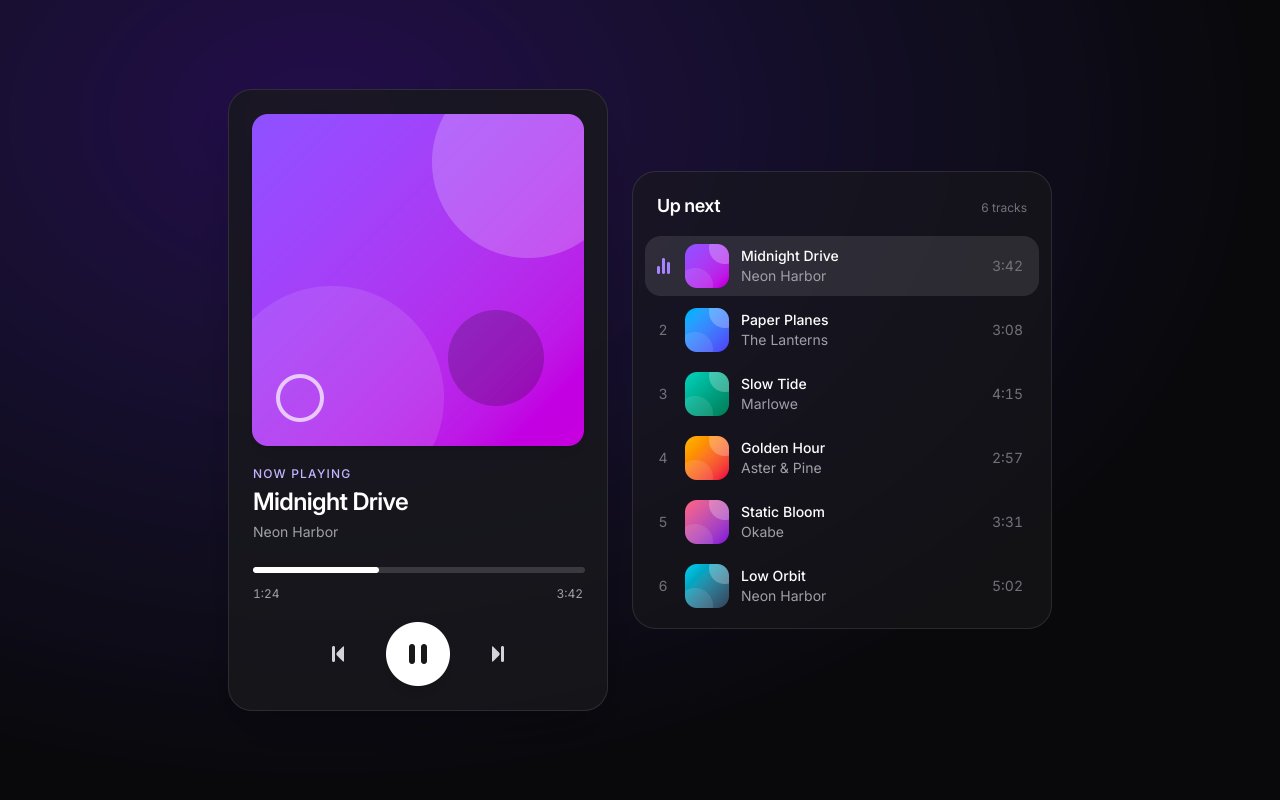
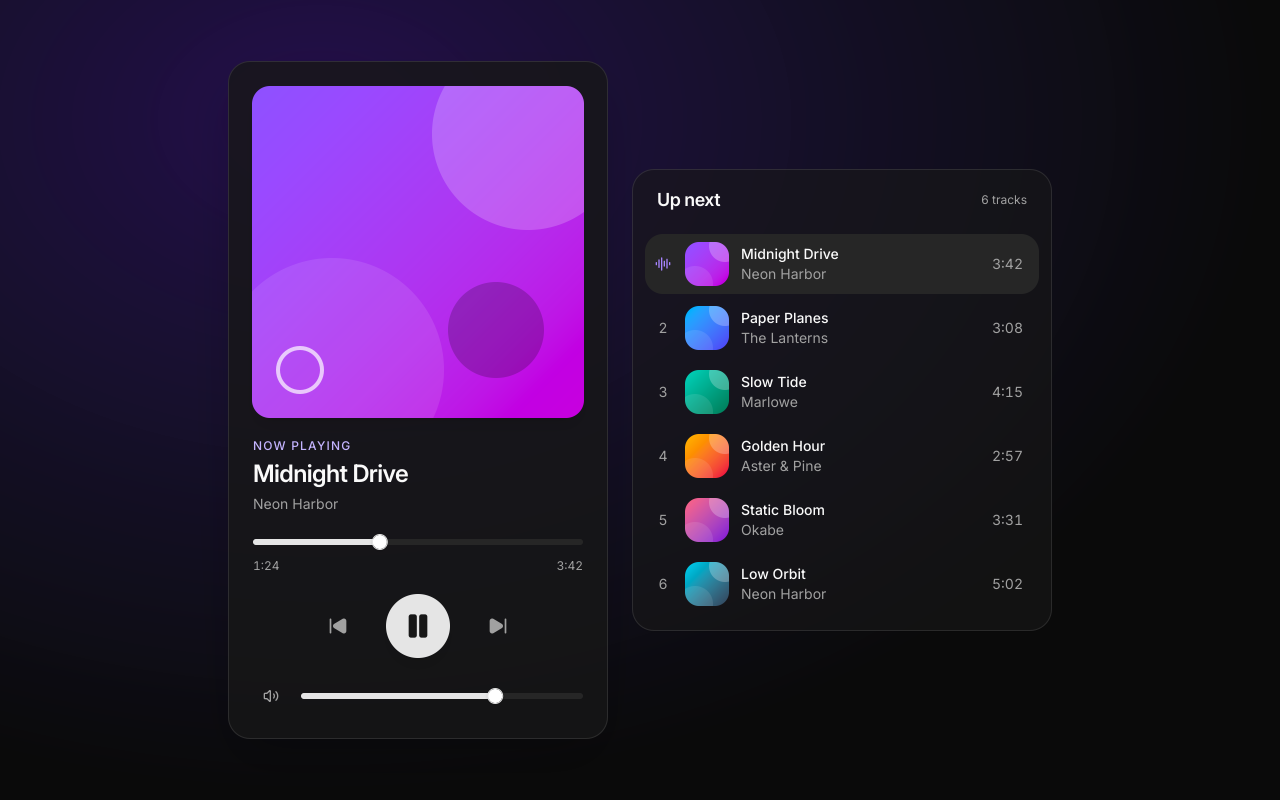
changelog: v0.10.0; README at v0.10.0 with the kit screenshots

diff --git a/README.md b/README.md
@@ -22,10 +22,11 @@ text tree you can read. That last part is on purpose: Tela is designed so both
 people and LLM agents can build good-looking interfaces without trial and
 error.
 
-> **Status: pre-1.0 (v0.9.1).** Phases 1–9 are done and tagged: Linux
+> **Status: pre-1.0 (v0.10.0).** Phases 1–10 are done and tagged: Linux
 > (Wayland, X11) and Windows windows, text inputs and IME, CSS grid,
 > transitions and animations, glass effects, theme tokens, i18n, SVG icons,
-> `aria` behavior hooks and `tela dev`, a reload that keeps your state. macOS
+> `aria` behavior hooks, `tela dev` (a reload that keeps your state) and
+> `kit`, ready-made components you can restyle. macOS
 > is not there yet. The public API (`tela`, `h`) may still break between minor
 > versions. See [Project status](#project-status).
 
@@ -173,12 +174,14 @@ and tests. They are the best way to see what the framework does today.
 
 ### Dashboard
 
-A glassmorphism analytics dashboard, the showcase of phase 6: CSS grid,
+A glassmorphism analytics dashboard built on `kit` with a glass recipe
+(`kit.DefaultStyle()` edited and applied with `kit.StyleProvider`): CSS grid,
 `sticky` and `fixed`, translucent panels with `backdrop-blur` over an image,
-springs, layout animations (`AnimateLayout`, `LayoutID`), `h.Presence`
-dialogs and toasts in an `h.Portal`, and a light/dark switch. It runs at 60 fps
-at 1080p on CPU rendering (p95 of 14.6 ms per frame on 4 cores; the benchmark
-and the "glass budget" are in its README).
+springs, layout animations (`AnimateLayout`, `LayoutID`), a `kit.Dialog`,
+`kit.Toaster` toasts, `kit.Tabs`, `kit.ToggleGroup` and a light/dark switch. Its hand-made phase-6 version
+ran at 60 fps at 1080p on CPU rendering (p95 of 14.6 ms per frame on 4 cores of
+a Core Ultra 5); the kit version measured a 15% higher p95 than the old one on
+the same machine (the benchmark and the "glass budget" are in its README).
 
 <p align="center">
   <img src="docs/images/dashboard.png" alt="dashboard example, light" width="49%">
@@ -190,11 +193,11 @@ tokens, a single class (`bg-background`); render it with `tela snapshot --dark`.
 
 ### Signup form
 
-A "Create your account" screen with every text field Tela has: `h.Input`
-with `Type("email")`, `invalid:` and `peer-invalid:` styling, a password with
-a show/hide toggle, an auto-growing `h.Textarea` with a live counter
-(`BindValue` + `TextFn`), `h.Label`, implicit submission with Enter, and a
-submit button that stays disabled until the form is valid.
+A "Create your account" screen on `kit`: `kit.Field` around `kit.Input` and
+`kit.Textarea` with descriptions and errors (`aria-invalid`), a password with a
+show/hide toggle and a strength `kit.Progress`, a live counter (`BindValue` +
+`TextFn`), a `kit.Checkbox`, implicit submission with Enter, and a submit
+button that stays disabled until the form is valid.
 
 <p align="center">
   <img src="docs/images/signup.png" alt="signup example, with an invalid e-mail" width="70%">
@@ -204,8 +207,8 @@ submit button that stays disabled until the form is valid.
 
 | | |
 |---|---|
-| **[pricing](examples/pricing)**: a monthly/yearly switch, a highlighted gradient plan, `absolute` badges. <br><img src="docs/images/pricing.png" alt="pricing example"> | **[settings](examples/settings)**: a whole form as one comparable value, switches, a theme picker, a dirty flag. <br><img src="docs/images/settings.png" alt="settings example"> |
-| **[player](examples/player)**: a progress bar that advances ten times a second without building anything (`UseValue` + `WidthFn`). <br><img src="docs/images/player.png" alt="player example"> | **[board](examples/board)**: a kanban board with drag and drop between columns, using `OnDrag` and `TranslateFn`. <br><img src="docs/images/board.png" alt="board example"> |
+| **[pricing](examples/pricing)**: plans as `kit.Card`s, a monthly/yearly `kit.ToggleGroup`, `kit.Badge`s. <br><img src="docs/images/pricing.png" alt="pricing example"> | **[settings](examples/settings)**: a whole form as one comparable value, `kit.Switch` rows, a `kit.RadioGroup` of theme cards, a Reset `kit.AlertDialog` and a toast on Save. <br><img src="docs/images/settings.png" alt="settings example"> |
+| **[player](examples/player)**: a `kit.Slider` seek bar that follows a playing clock and a drag without building anything (`Slider.ValueSource`), icon buttons with tooltips. <br><img src="docs/images/player.png" alt="player example"> | **[board](examples/board)**: a kanban board with drag and drop between columns (`OnDrag`, `TranslateFn`), `kit.Card`s with a `kit.DropdownMenu` and a `kit.ContextMenu`, edit and delete dialogs. <br><img src="docs/images/board.png" alt="board example"> |
 | **[shapes](examples/shapes)**: rounded cards, gradients, analytic shadows, blur and glass. <br><img src="docs/images/shapes.png" alt="shapes example"> | **[text](examples/text)**: mixed-script paragraphs (Latin, Arabic, CJK, emoji), selection and carets. <br><img src="docs/images/text.png" alt="text example"> |
 
 ### Command center (`aria`)
@@ -323,8 +326,7 @@ VirtualList(100_000, func(int) float32 { return 65 }, func(i int) tela.Component
   rule (`Value *T`, `DefaultValue`, `OnValueChange`), and a look that is data:
   edit `kit.DefaultStyle()` and apply it to a subtree with `kit.StyleProvider`.
   The [`examples/kit`](examples/kit) gallery shows them all; the guide is
-  [Kit](https://github.com/kuronosu/tela/wiki/Kit) on the wiki. (Phase 10, on
-  main and not yet in a tagged release.)
+  [Kit](https://github.com/kuronosu/tela/wiki/Kit) on the wiki. (Phase 10.)
 - **Icons and images**: `h.Icon` draws SVG as vectors, colored by the text
   color; `Img` takes files, `embed.FS`, bytes and SVG, with `h.Tint`. The
   separate module `github.com/kuronosu/tela/icons/lucide` has Lucide's whole
@@ -369,7 +371,7 @@ about half a second, keeping its state: hooks, text fields, scroll and focus
 
 ## Project status
 
-**Current version: [v0.9.1](CHANGELOG.md)**, tagged 2026-10-22. Phases 1–9
+**Current version: [v0.10.0](CHANGELOG.md)**, tagged 2026-10-25. Phases 1–10
 are done.
 
 | Phase | Name | State |
@@ -383,8 +385,8 @@ are done.
 | 7 | Public API polish: struct components, theme tokens, `tela/i18n`, right-to-left, dev mode by default | ✅ v0.7.0 |
 | 8 | Icons, SVG and `aria`: `h.Icon`, Lucide, `tela icons gen`, behavior hooks, `UseFloating` | ✅ v0.8.0 |
 | 9 | Dev loop: `tela dev`, a reload that keeps state | ✅ v0.9.0 |
-| 10 | `kit`: ready-made components on the theme tokens | next |
-| 11 | `tela lint`, `tela mcp`, `llms.txt`, full-screen examples | planned |
+| 10 | `kit`: ready-made components on the theme tokens, restyled with recipes | ✅ v0.10.0 |
+| 11 | `tela lint`, `tela mcp`, `llms.txt`, full-screen examples | next |
 | 12 | Desktop essentials: window control, multiple windows, native dialogs, tray and notifications, app data | planned |
 | 13 | Desktop integration: drag and drop with the OS, native menus, global shortcuts, deep links, secure storage | planned |
 | 14 | macOS and IME on X11 | planned |
@@ -416,12 +418,8 @@ overlays; the `tela` CLI (`snapshot`, `inspect`, `dev`, `icons gen`).
 
 - **No macOS window** yet (phase 14); it cross-compiles. No IME on X11 yet
   (XIM, phase 14).
-- **No ready-made checkbox, radio, select or slider in the tagged release**
-  (v0.9.1); `kit` (phase 10) has them on main. In v0.9.1 the `aria` hooks
-  (`UseCheckbox`, `UseSwitch`, `UseSelect`) give the behavior and you provide
-  the look.
-- **Glass pages at 2x are not 60 fps while scrolling** on CPU (the dashboard's
-  p95 is 36–48 ms per frame at 2880×1800 and 4K; it is 14.6 ms at 1080p).
+- **Glass pages at 2x are not 60 fps while scrolling** on CPU (the phase-6
+  dashboard's p95 was 36–48 ms per frame at 2880×1800 and 4K, 14.6 ms at 1080p).
 - Transforms are 2D only; SVG has no text, filters or patterns; no
   `grid-template-areas` from classes; menus have no submenus yet.
 - `tela dev` has not been run on macOS; an IME composition is lost across a

diff --git a/docs/ROADMAP.md b/docs/ROADMAP.md
@@ -6,11 +6,12 @@
 
 ## Current status
 
-- **Phase in progress:** phase 10 (`kit`): every task merged and verified (ADRs 129–153), done criteria met, review fixes in; waiting for the owner's answers to the open questions before the CHANGELOG moves to `v0.10.0` and the tag is proposed.
+- **Phase in progress:** none; phase 10 (`kit`) is done: CHANGELOG moved to `v0.10.0` (2026-10-25), tag proposed to the owner.
 - **Phase 10 delivered (2026-10-25):** package `kit` (34 components on shadcn/ui `new-york-v4`, checked against Chromium in both schemes and scales; recipes, `StyleProvider`, trigger slots, logical utilities and `DirectionProvider`; ADRs 129, 130, 136–143, 151), the `aria` hooks it needed (radio, toggle group, slider, progress, meter, menu bar, context menu, calendars, color; ADRs 132–135), engine and i18n additions (`h.AriaInvalid`, `h.AriaSort`, first day of week, month/weekday names, `MonthYear`; ADR-131), kit's class order as Tailwind's stylesheet (ADR-140), the examples on kit (dashboard with a glass recipe, settings, pricing, signup, player, board, i18n, native with three recipes; ADRs 144–149), the `examples/kit` gallery and the Kit wiki guide (ADR-150), review fixes (ADR-152) and `tela.DevMode` (ADR-153).
 - **Phase 10 done criteria:** `examples/dashboard` (glass recipe, look preserved against its old golden) and `examples/native` (Win11, Adwaita, Breeze recipes) are built only on kit; settings uses the default style; no migrated example has a hand-made control or drawn icon (charts, cover art and decoration remain); hello, counter, shapes, text, layout, motion, virtuallist and aria keep bit-identical goldens. A `/code-review high` found 10 issues (worst: a 26 MB binary committed by an agent, removed from the unpushed history; `Toaster{Expand: true}` never closing toasts); all fixed with regression tests.
 - **Phase 10 known limitations:** no submenus; dashboard p95 23.1 → 26.7 ms on this machine (fewer cheap frames; scroll frames +9%; the old page already missed 16 ms here); `tela snapshot` does not show toasts set by effects (posts); kit components keep aria hook state in refs that `tela dev` cannot keep (silent resets); a flex item with `aspect-ratio` and `w-full` does not shrink like Chromium's (calendar cells, a stretched `w-fit` Calendar is too tall); `flex-1` in an auto-height column collapses; arbitrary `bg-[linear-gradient(…)]` interpolates in Oklab where CSS uses sRGB; text with `leading-none` sits one device pixel off Chromium; `telatest` has no right click or long press; `Props` takes one prop (`MergeProps` is internal); the README screenshots of the migrated examples are old.
-- **Next step:** the owner answers the open questions of the session's final report; then CHANGELOG → `v0.10.0` and the tag proposal.
+- **Phase 10 owner review (2026-10-25):** the owner decided the API review (ADR-154): `tela.UseDirection()` replaces `kit.DirectionProvider` (ADR-155); `Default…` fields are pointers where zero is valid, `Dialog.HideClose`, `Card.TitleLevel`, `tela.MergeProps`, `Table.RowProps`, `AriaLabel`/`ID` fields (ADR-156); README screenshots regenerated.
+- **Next step:** create the `v0.10.0` tag once the owner approves; then plan phase 11 (the API gaps and engine issues of ADRs 144–150 are candidates for `v0.10.x` and phase 11).
 - **Phase 9:** (dev loop, `tela dev`) is done: `v0.9.0` and `v0.9.1` (Windows fixes) tagged 2026-10-22, not pushed. On Windows `tela dev` reloads `examples/dashboard` in ~1.0–1.1 s with Microsoft Defender excluding `%TEMP%` and the Go build cache (~2.2 s without: every new build is scanned on its first run, ~690 ms); `tela dev` prints how to exclude them when a reload's build is slow to start (ADR-125, ADR-126).
 - **Phase 9 delivered (2026-10-22):** `internal/platform/remote`, a platform backend over IPC with shared-memory frames, input freeze/promote and an overlay hook (ADR-112); hook and engine state captured and restored in `core` with React Fast Refresh's rule, compiled only under the `teladev` tag (ADR-113); the child runtime and `App.DevState` (ADR-114); the `tela dev` supervisor with native watchers, background builds and swap (ADR-115); faster dev builds and concurrent font parsing (ADR-116); the error overlay (ADR-117); text fields reveal their caret after layout (ADR-118, ADR-122); review fixes (ADR-119 to ADR-124).
 - **Phase 9 verified:** `examples/dashboard` reloads live on Wayland and X11 (Xwayland) in 433–678 ms from save to the new frame (headless median 588–621 ms; was 855 ms before T6), the same window (Hyprland address and supervisor PID) throughout, scroll, focus, caret and typed text kept, a component that gains a hook resets alone; a build error docks an overlay over the running app and the next good save clears it in the same present; capture bursts show one transition, no flash. Release build of `examples/dashboard` (`-trimpath`) is 25,634,957 bytes vs 25,622,954 at `v0.8.2` (+12 KB, every changed symbol from the phase's non-dev fixes or `App.DevState`), no dev-loop symbol, `encoding/gob` absent (`TestReleaseBuildHasNoDevLoop`).
@@ -460,3 +461,4 @@ One line per session: date, what was done, what is pending.
 - **2026-10-25:** `tela new <dir>` (the owner's request, ADR-128): templates embedded in `cmd/tela/templates/app`, `-module`, `-skip-deps`, `go get` + `go mod tidy` at the binary's release version. Verified: unit tests, an offline test that vets and tests a generated app against this checkout and runs `tela inspect` on it, and a real `tela new` + `go test` against the published v0.9.1; `staticcheck` is not installed on this host (not run).
 - **2026-10-25:** phase 10 planned with the owner: struct components with slots, shadcn `new-york-v4` checked against Chromium, recipes for customization (the dashboard keeps a glass look on kit), app-screen examples migrated and the layer examples kept (K1–K17, ADR-129). Nothing implemented.
 - **2026-10-25 (owner asleep from ~02:30, cron at 11:01):** phase 10 implemented with up to 7 agents in parallel: kit foundation, engine, all aria hooks, every kit component, the RTL sweep, eight examples migrated, the gallery and wiki; a weekly API limit stopped the agents from about 05:00 to 11:00. `/code-review high` (10 findings) fixed (ADR-152); `tela.DevMode` keeps kit free of `internal/` (ADR-153). A 26 MB binary an agent committed was removed from the unpushed history (backup branch `backup/pre-native-binary-removal`). Pending: the owner's answers, then `v0.10.0`.
+- **2026-10-25:** the owner reviewed the phase's API on a review page (D1–D9, A1–A5; ADR-154); `tela.UseDirection` (ADR-155) and the kit changes (ADR-156) merged and verified; README screenshots and status updated; CHANGELOG moved to `v0.10.0`. Pending: the tag.

diff --git a/CHANGELOG.md b/CHANGELOG.md
@@ -12,15 +12,19 @@ under **Breaking**. See ADR-049 in `docs/ARCHITECTURE.md`.
 
 ## [Unreleased]
 
+## [0.10.0] - 2026-10-25
+
 ### Added
 
 - Package `kit`: styled components on the theme tokens, in the look of shadcn/ui v4 (`new-york-v4`) and checked against it in Chromium, light and dark, at scales 1 and 2. Every component is a struct with its props as fields, `Class` and `Props` for the root element and slots for its parts: Button, Badge, Card, Avatar, Label, Input, Textarea, Separator, Skeleton, Field, Checkbox, Switch, RadioGroup, Toggle, ToggleGroup (a segmented control), Slider, Progress, Dialog, AlertDialog, Popover, Tooltip, Select, Tabs, Table (sortable, with a sticky header and leading columns), a Toaster with `kit.UseToast`, DropdownMenu, Menubar, ContextMenu, Calendar, RangeCalendar, DatePicker, DateRangePicker, ColorPicker and ColorInput (ADR-129, ADR-130, ADR-136 to ADR-143).
-- Customizing `kit`: the whole look is data. `kit.DefaultStyle()` returns the recipes (classes per part, variant, size and state), an app edits them, adds variants, and applies them to a subtree with `kit.StyleProvider`; `kit.Theme()` is shadcn's neutral theme. Trigger slots take any `kit.Trigger` (`kit.Button`, a component with `WithTriggerProps`, or `kit.TriggerFunc`). Recipes use logical utilities, so components mirror under `h.Dir("rtl")`; `kit.DirectionProvider` and the `Direction` fields give the arrow keys and drags of sliders, tabs, toggle and radio groups, menu bars and color pickers the same direction (ADR-129, ADR-137, ADR-151).
+- Customizing `kit`: the whole look is data. `kit.DefaultStyle()` returns the recipes (classes per part, variant, size and state), an app edits them, adds variants, and applies them to a subtree with `kit.StyleProvider`; `kit.Theme()` is shadcn's neutral theme. Trigger slots take any `kit.Trigger` (`kit.Button`, a component with `WithTriggerProps`, or `kit.TriggerFunc`). Recipes use logical utilities and components read `tela.UseDirection()`, so `h.Dir("rtl")` mirrors their drawing, arrow keys and drags; a component's `Direction` field overrides it (ADR-129, ADR-137, ADR-151, ADR-155).
 - `examples/kit`: a gallery with a page and a `Previews` entry per component, a second style built from recipe edits and a light/dark switch; the wiki's Kit guide and generated kit API reference (ADR-150).
 - `aria`: `UseRadioGroup`, `UseToggleGroup`, `UseSlider`, `UseProgressBar`, `UseMeter` (ADR-132), `UseMenuBar`, `UseContextMenuTrigger` (ADR-133), `UseCalendar`, `UseRangeCalendar` and the `aria.Date` type (ADR-134), `UseColorState`, `UseColorArea`, `UseColorSlider`, `UseColorField`, HSB/HSL and hex helpers (ADR-135).
 - `h.AriaInvalid` with the `aria-invalid:` variant, `h.AriaSort` with `aria-[sort=ascending]:` and `aria-[sort=descending]:`, and `telatest.Invalid`, `telatest.Sort`; the aria snapshot prints `[invalid]` as Playwright 1.61 does (ADR-131).
 - `i18n`: `FirstDayOfWeek`, `Formatter.FirstDayOfWeek`, `Formatter.MonthName`, `Formatter.WeekdayName` (stand-alone names in four widths) and `Formatter.MonthYear` ("October 2026", "2026年10月") (ADR-131, ADR-134).
 - `tela.DevMode()` reports whether dev mode is on where it is called, for component libraries that check their own props (ADR-153).
+- `tela.UseDirection()` returns the direction (`"ltr"` or `"rtl"`) at a component's position, from the nearest `h.Dir`, `auto` included; only its readers rebuild when it changes (ADR-155).
+- `tela.MergeProps(props...)` makes one prop of several, for fields that take one, such as `Props` of every kit component (ADR-156).
 
 ### Changed
 
@@ -545,7 +549,8 @@ Phase 1: pixels on screen.
   backends.
 - `examples/shapes` and `tela snapshot`.
 
-[Unreleased]: https://github.com/kuronosu/tela/compare/v0.9.2...HEAD
+[Unreleased]: https://github.com/kuronosu/tela/compare/v0.10.0...HEAD
+[0.10.0]: https://github.com/kuronosu/tela/compare/v0.9.2...v0.10.0
 [0.9.2]: https://github.com/kuronosu/tela/compare/v0.9.1...v0.9.2
 [0.9.1]: https://github.com/kuronosu/tela/compare/v0.9.0...v0.9.1
 [0.9.0]: https://github.com/kuronosu/tela/compare/v0.8.2...v0.9.0
